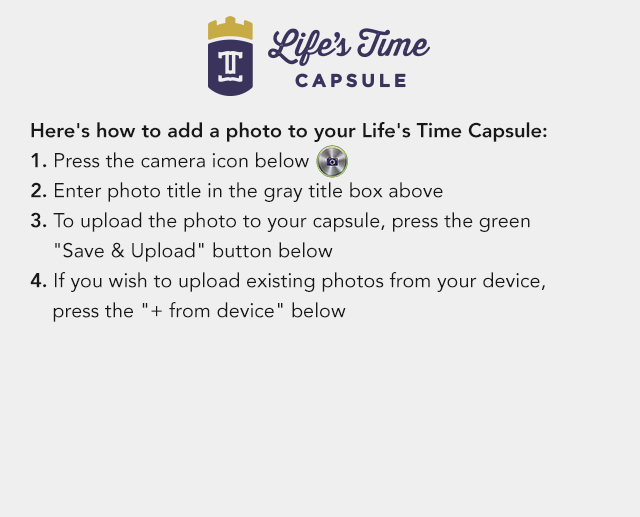
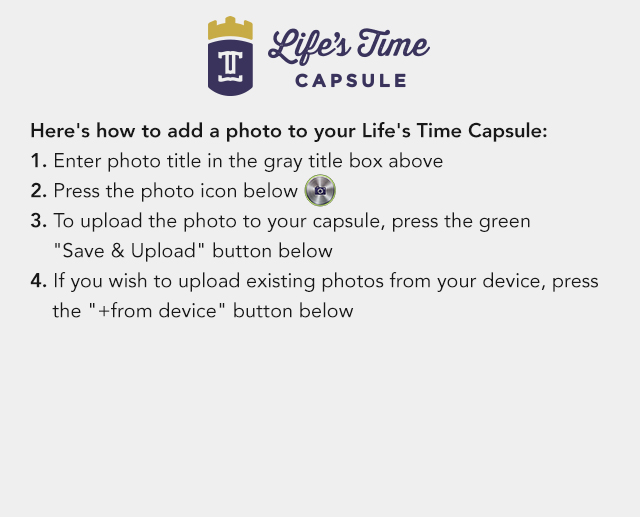
Changes made by Derek Markey (derek@climbthepage.com).

Changed region(s): [[0.0938, 0.2785, 0.6875, 0.4023], [0.0625, 0.588, 0.5625, 0.619], [0.8438, 0.5261, 0.9375, 0.5571]]

diff --git a/Life Capsule/css/all.css b/Life Capsule/css/all.css
@@ -563,13 +563,13 @@ input[type=submit]:hover{cursor:pointer;}
 }
 */
 #picture-add {
-    background: url(../images/bg/Add-Photo-640x617.jpg) no-repeat 0 144px #efefef;
+    background: url(../images/bg/Add-Photo-640x517.jpg) no-repeat 0 144px #efefef;
     background-size:100% auto;
     position: relative;     
 }
 #picture-add.ios-model-iphone5-1{ background: url(../images/iOS/7/Add-Photo-640x517.jpg) no-repeat 0 144px #efefef; background-size:100% auto; }
 #video-add {
-    background: url(../images/bg/Add-Video-640x617.jpg) no-repeat 0 144px #efefef;
+    background: url(../images/bg/Add-Video-640x517.jpg) no-repeat 0 144px #efefef;
     background-size:100% auto;
     position: relative;
 }

diff --git a/Life Capsule/js/journal.js b/Life Capsule/js/journal.js
@@ -1,7 +1,18 @@
 function readyJournal() {
     
+    $('#ndpTA').on('change',function() {
+        
+        var jTCounter = $(this).val();
+        
+        if( jTCounter.length < 1 ){
+            $(this).removeClass('active-journal');
+        }
+    });
+    
     //fade bg paper on click
     $('#ndpTA').click(function() { $('#ndpTA').addClass('active-journal');/*css('background','#FFF');*/ });
+    
+    
 
     
     //handle save & upload click

diff --git a/Life Capsule/index.html b/Life Capsule/index.html
@@ -176,7 +176,7 @@
                         <a id="uploadselected" href="#" data-role="button" data-inline="true">Upload</a>
                         
                     </div>
-                      <div id="gallery-wrapper">  
+                      <div id="gallery-wrapper">
 						<div id="gallery"><ul id="gallery-list"></ul></div>
                       </div>    
 					</div>

diff --git a/Life Capsule/js/record.js b/Life Capsule/js/record.js
@@ -45,7 +45,7 @@ recordaudioApp.prototype={
 	},    
     
     _onFail: function(error) {
-        toastr.error('Failed! Error: ' + error.code);
+        toastr.error('No Audio Recorded!');
     } 
     
     

diff --git a/Life Capsule/js/audio.js b/Life Capsule/js/audio.js
@@ -73,6 +73,6 @@ audioApp.prototype={
 	},    
     
     _onFail: function(error) {
-        toastr.error('Failed! Error: ' + error.code);
+        toastr.error('Audio Recording Cancelled!');
     }    
 }

diff --git a/Life Capsule/js/video.js b/Life Capsule/js/video.js
@@ -160,6 +160,6 @@ videoApp.prototype={
     },
     
     _onLibraryFail: function(message) {
-        toastr.error('Error: ' + message);
+        toastr.error('No Video was Taken!');
     },    
 }
